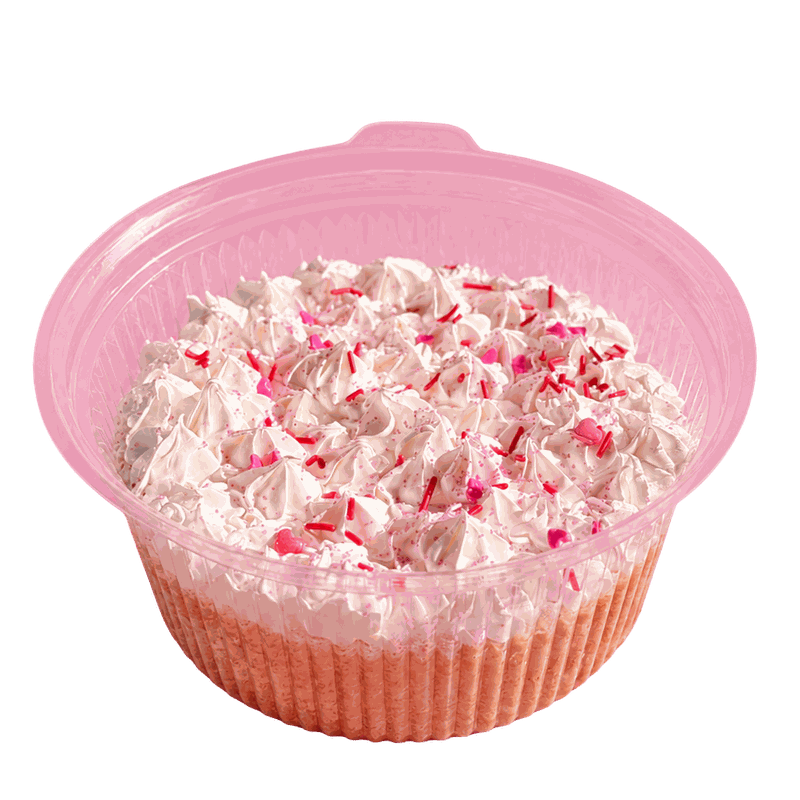
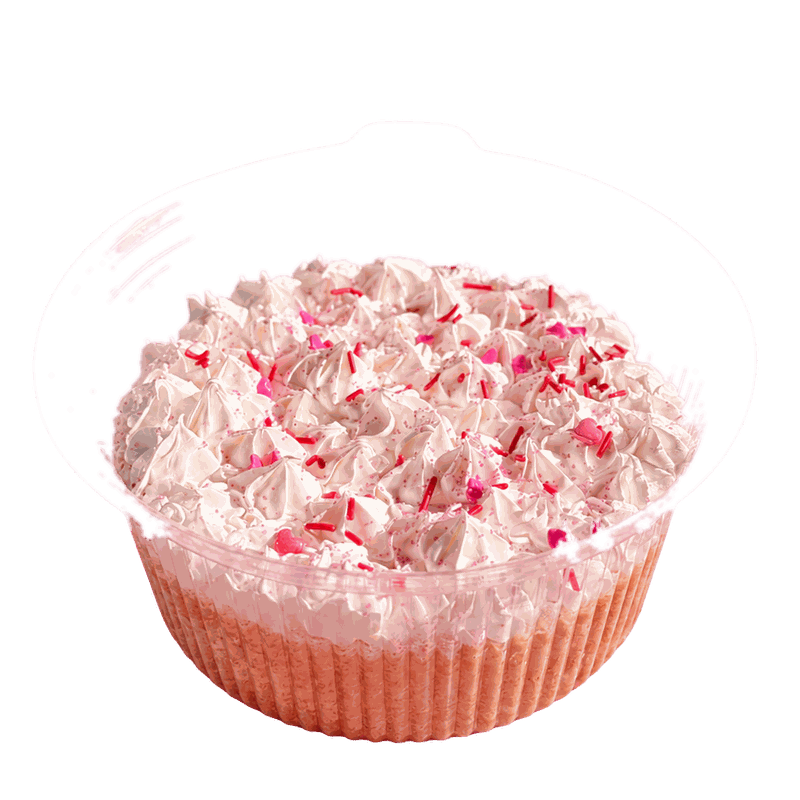
third round of Mafer's feedback on photos and encargo layout
- inset photos from their circular border: padding on Pâtisserie cards
  and on Primavera, Matilda, Profiteroles and Perritos sections
- drop the ⌀ symbol from Matilda's size rows
- tres leches: remove the pink container tint from the photo (color
  flood-fill from the rim; sprinkles untouched) and regenerate assets
- Perritos now follows the photo + price-table pattern (rosa claro to
  keep backgrounds alternating); old two-column layout CSS removed

Changed region(s): [[0.0312, 0.125, 0.9688, 0.7188]]

diff --git a/index.html b/index.html
@@ -261,6 +261,9 @@
     width:210px;height:210px;border-radius:50%;
     object-fit:cover;margin:0 auto;background:var(--rosa-claro);
   }
+  /* fotos con recorte al ras: aire extra dentro del círculo */
+  #primavera .cards-media img,#matilda .cards-media img,
+  #profiteroles .cards-media img,#perritos .cards-media img{padding:1rem}
   .bloque-rosa-claro .cards-media img{background:var(--blanco)}
   /* el envase de la tres leches es translúcido: fondo rosado, no blanco */
   #tresleches .cards-media img{background:var(--rosa-claro)}
@@ -277,6 +280,7 @@
     width:150px;height:150px;border-radius:50%;
     object-fit:cover;margin:0 auto .9rem;
     background:var(--rosa-claro);
+    padding:.7rem; /* aire entre la foto y el borde circular */
   }
   .card h4{font-size:1.02rem;color:var(--negro)}
   .card p{color:var(--gris);font-size:.86rem;margin-top:.4rem}
@@ -306,24 +310,6 @@
   .tabla-precios li{
     display:flex;align-items:baseline;gap:.5rem;
     padding:.45rem 0;font-size:.95rem;
-  }
-
-  /* perritos: bloque rosa fuerte con foto */
-  .perritos{
-    display:grid;grid-template-columns:170px 1fr;gap:1.4rem;
-    align-items:center;max-width:620px;margin:1.6rem auto 0;
-  }
-  .perritos img{width:170px;height:170px;border-radius:50%;object-fit:cover;background:var(--blanco)}
-  .perritos .texto{color:var(--negro);font-size:.95rem}
-  .perritos .texto p + p{margin-top:.6rem}
-  .perritos .texto .fino{font-size:.85rem}
-  .perritos .texto .precio-grande{
-    font-family:var(--display);font-weight:700;font-size:1.6rem;
-    color:var(--blanco);margin-top:.5rem;letter-spacing:.03em;
-  }
-  @media(max-width:520px){
-    .perritos{grid-template-columns:1fr;text-align:center}
-    .perritos img{margin:0 auto}
   }
 
   /* ═══════════ CTA + FOOTER ═══════════ */
@@ -797,8 +783,8 @@
           <img src="assets/matilda.png" alt="Torta Matilda" loading="lazy" width="800" height="800">
         </picture>
         <ul class="tabla-precios">
-          <li>Mediana · 15 cm ⌀ × 11 cm alto <span class="puntos"></span> <span class="precio">$45</span></li>
-          <li>Grande · 22 cm ⌀ × 12 cm alto <span class="puntos"></span> <span class="precio">$90</span></li>
+          <li>Mediana · 15 cm × 11 cm alto <span class="puntos"></span> <span class="precio">$45</span></li>
+          <li>Grande · 22 cm × 12 cm alto <span class="puntos"></span> <span class="precio">$90</span></li>
         </ul>
       </div>
     </div>
@@ -878,21 +864,19 @@
     </div>
   </section>
 
-  <!-- ── PERRITOS (bloque rosa fuerte, como el PDF) ── -->
-  <section class="bloque bloque-rosa" id="perritos">
+  <!-- ── PERRITOS (rosa claro) ── -->
+  <section class="bloque bloque-rosa-claro" id="perritos">
     <div class="bloque-inner">
       <h2 class="titulo-xl">Perritos</h2>
-      <div class="perritos">
+      <p class="nota-bloque">Torta especial para tu peludito: cambur, miel, huevos, yogurt y avena. Va personalizada con el nombre de tu perrito (en yogurt sin colorante).</p>
+      <div class="cards cards-media">
         <picture>
           <source type="image/webp" srcset="assets/torta-de-perro.webp">
           <img src="assets/torta-de-perro.png" alt="Torta para perritos con nombre personalizado" loading="lazy" width="800" height="800">
         </picture>
-        <div class="texto">
-          <p>Esta es una torta especial para tu peludito y lleva estos ingredientes: cambur, miel, huevos, yogurt y avena.</p>
-          <p>La torta va personalizada con el nombre de tu perrito (en yogurt sin colorante).</p>
-          <p class="fino">22 cm de largo × 5 cm aprox. Solo tenemos un tamaño y un modelo.</p>
-          <p class="precio-grande">$14</p>
-        </div>
+        <ul class="tabla-precios">
+          <li>Tamaño único · 22 cm de largo × 5 cm aprox. <span class="puntos"></span> <span class="precio">$14</span></li>
+        </ul>
       </div>
     </div>
   </section>